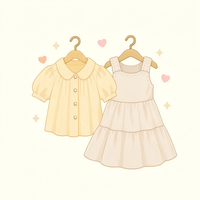
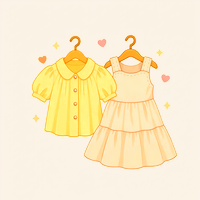
加深搭配、訂單圖示配色並統一底色
搭配、訂單提高飽和度與對比，向身型圖示看齊；四個新圖示底色統一為
購物車同款奶油色 #FBF3E6，圖片網址改 ?v=3 避免快取。

diff --git a/index.html b/index.html
@@ -196,7 +196,7 @@ body {
   pointer-events: none;
 }
 /* ★ 新版韓系圖示（Canva 產生，圖裡沒畫圓框）補一圈和舊圖一致的細框 */
-.cart-btn-icon.icon-ring { box-sizing: border-box; border: 1.5px solid #A68968; background: #FFFBF2; }
+.cart-btn-icon.icon-ring { box-sizing: border-box; border: 1.5px solid #A68968; background: #FBF3E6; }
 .cart-btn-img:hover .cart-btn-label { transform: translateX(-50%) scale(0.91); } /* 抵銷按鈕放大，字不跟著變大 */
 .cart-btn-icon {
   width: 100%;
@@ -3446,18 +3446,18 @@ body.halloween-mode .product-card:active {
       <input type="text" class="search-input" id="searchInput" placeholder="搜尋商品..." autocomplete="off">
     </div>
     <button class="cart-btn cart-btn-img" onclick="goBodyCheck()" aria-label="身型診斷" title="身型診斷">
-      <img src="./icons/body-check.png?v=2" alt="" class="cart-btn-icon icon-ring"><span class="cart-btn-label">身型</span>
+      <img src="./icons/body-check.png?v=3" alt="" class="cart-btn-icon icon-ring"><span class="cart-btn-label">身型</span>
     </button>
     <!-- 🎨 色彩心理測驗 (v2.9.48) -->
     <button class="cart-btn cart-btn-img" onclick="goColorTest()" aria-label="色彩心理測驗" title="色彩心理測驗">
-      <img src="./icons/color-test.png?v=2" alt="" class="cart-btn-icon icon-ring"><span class="cart-btn-label">色彩</span>
+      <img src="./icons/color-test.png?v=3" alt="" class="cart-btn-icon icon-ring"><span class="cart-btn-label">色彩</span>
     </button>
     <!-- 👗 搭配小劇場按鈕（開發中隱藏，Wan 自己調整完畢再開放） -->
     <button class="cart-btn cart-btn-img" id="dressupBtn" onclick="goDressup()" aria-label="搭配小劇場" title="搭配小劇場" style="display:none;">
-      <img src="./icons/dressup.png?v=2" alt="" class="cart-btn-icon icon-ring"><span class="cart-btn-label">搭配</span>
+      <img src="./icons/dressup.png?v=3" alt="" class="cart-btn-icon icon-ring"><span class="cart-btn-label">搭配</span>
     </button>
     <button class="cart-btn cart-btn-img" id="myOrdersBtn" onclick="goMyOrders()" aria-label="我的訂單">
-      <img src="./icons/orders.png?v=2" alt="" class="cart-btn-icon icon-ring"><span class="cart-btn-label">訂單</span>
+      <img src="./icons/orders.png?v=3" alt="" class="cart-btn-icon icon-ring"><span class="cart-btn-label">訂單</span>
       <span class="cart-badge" id="myOrdersBadge" data-count="0"></span>
     </button>
     <button class="cart-btn cart-btn-img" onclick="openCart()" aria-label="購物車">
